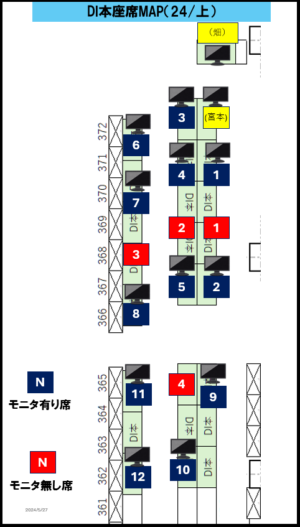
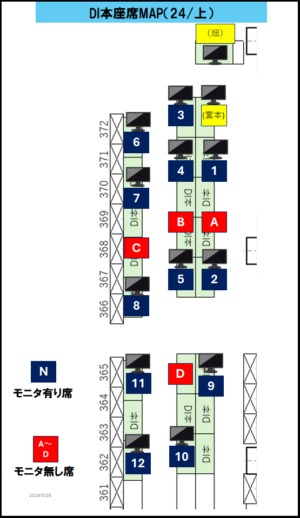
mod seats map & parameters
座席マップの更新と、それに伴うパラメータ処理等の更新

diff --git a/seatassign.py b/seatassign.py
@@ -17,27 +17,30 @@ private_image_filename = 'BBB.png'
 
 # 最大座席数
 max_seats = 12
-max_seats_nd = 4
+max_seats_nd = 4    # 10以下
 
 # ディスプレイのある座席の座標
-rectParams = (  '203,163,27,23'
-              , '203,275,27,23'
-              , '168,105,27,23'
-              , '168,163,27,23'
-              , '168,275,27,23'
-              , '122,133,27,23'
-              , '122,191,27,23'
-              , '122,302,27,23'
-              , '200,385,27,23'
-              , '170,458,27,23'
-              , '125,382,27,23'
-              , '124,465,27,23')
+rectParams = (  '200,159,27,23'
+              , '200,268,27,23'
+              , '167,104,27,23'
+              , '167,159,27,23'
+              , '167,268,27,23'
+              , '122,131,27,23'
+              , '122,186,27,23'
+              , '122,294,27,23'
+              , '197,375,27,23'
+              , '167,445,27,23'
+              , '125,372,27,23'
+              , '124,452,27,23')
 
 # ディスプレイのない座席の座標
-rectParamsND = ('203,216,27,23'
-              , '168,216,27,23'
-              , '122,243,27,23'
-              , '168,372,27,23')
+rectParamsND = ('200,211,27,23'
+              , '168,211,27,23'
+              , '122,237,27,23'
+              , '167,362,27,23')
+
+# ディスプレイのない座席の名前
+nameND = ['A','B','C','D','E','F','G','H','I','J']
 
 # パスワードの確認
 def check_password():
@@ -102,7 +105,7 @@ def image_uploader():
 
 def max_seats_update():
     seats = load_state()
-    new_max_seats = st.number_input("最大座席数【ディスプレイ付】を入力して下さい", min_value=2, max_value=1000, value=seats['seatsnum'], step=1)
+    new_max_seats = st.number_input("最大座席数【ディスプレイ付】を入力して下さい  \nただし、12以下の数字にして下さい", min_value=2, max_value=12, value=seats['seatsnum'], step=1)
     if st.button("座席数の更新【ディスプレイ付】"):
         # Bugfix
         # タイムゾーンを指定する
@@ -115,7 +118,7 @@ def max_seats_update():
 
 def max_seats_nd_update():
     seats = load_state()
-    new_max_seats_nd = st.number_input("最大座席数【ディスプレイなし】を入力して下さい", min_value=2, max_value=1000, value=seats['seatsnum_nd'], step=1)
+    new_max_seats_nd = st.number_input("最大座席数【ディスプレイなし】を入力して下さい  \nただし、4以下の数字にして下さい", min_value=2, max_value=4, value=seats['seatsnum_nd'], step=1)
     if st.button("座席数の更新【ディスプレイなし】"):
         # Bugfix
         # タイムゾーンを指定する
@@ -171,7 +174,7 @@ def admin_main():
                 st.error(f'開放する席はありません')
         
         delete_seat_nd = st.selectbox(
-            '開放する席の番号（ディスプレイ無し）',
+            '開放する席の番号（ディスプレイ無し）  \n”ABCD”は、”1234”と読み替えて下さい',
             (seats["assigned_nd"]))
         # st.write('開放する席の番号', delete_seat)
         if st.button('【Admin】座席を開放する  \n（ディスプレイ無し）'):
@@ -183,7 +186,7 @@ def admin_main():
                 seats['assigned_nd'].remove(delete_seat_nd)
                 available_seats_nd.append(delete_seat_nd)
                 available_seats_nd = list(set(available_seats_nd))
-                st.success(f'座席番号 {delete_seat_nd} を開放しました。')
+                st.success(f'座席番号 {nameND[int(delete_seat_nd)-1]} を開放しました。')
                 save_state(seats)
                 # Auto Refresh
                 st_autorefresh(interval=2000, limit=2, key="fizzbuzzcounter")
@@ -248,7 +251,7 @@ def release_seats():
 
         st.divider()
         delete_seat_nd = st.selectbox(
-            '開放する席【ディスプレイ無し】の番号',
+            '開放する席【ディスプレイ無し】の番号  \n”ABCD”は、”1234”と読み替えて下さい',
             (seats["assigned_nd"]))
         # st.write('開放する席の番号', delete_seat)
         if st.button('座席を開放する  \n【ディスプレイなし】'):
@@ -260,7 +263,7 @@ def release_seats():
                 seats['assigned_nd'].remove(delete_seat_nd)
                 available_seats_nd.append(delete_seat_nd)
                 available_seats_nd = list(set(available_seats_nd))
-                st.success(f'座席番号 {delete_seat_nd} を開放しました。')
+                st.success(f'座席番号 {nameND[int(delete_seat_nd)-1]} を開放しました。')
                 save_state(seats)
                 # Auto Refresh
                 # st_autorefresh(interval=2000, limit=2, key="fizzbuzzcounter")
@@ -353,7 +356,7 @@ def main():
             if available_seats_nd:
                 assigned_seat_nd = random.choice(available_seats_nd)
                 seats['assigned_nd'].append(assigned_seat_nd)
-                st.success(f'あなたの座席番号は ＜ {assigned_seat_nd} ＞ です。')
+                st.success(f'あなたの座席番号は ＜ {nameND[int(assigned_seat_nd)-1]} ＞ です。')
                 save_state(seats)
                 # Auto Refresh
                 # st_autorefresh(interval=2000, limit=2, key="fizzbuzzcounter")
